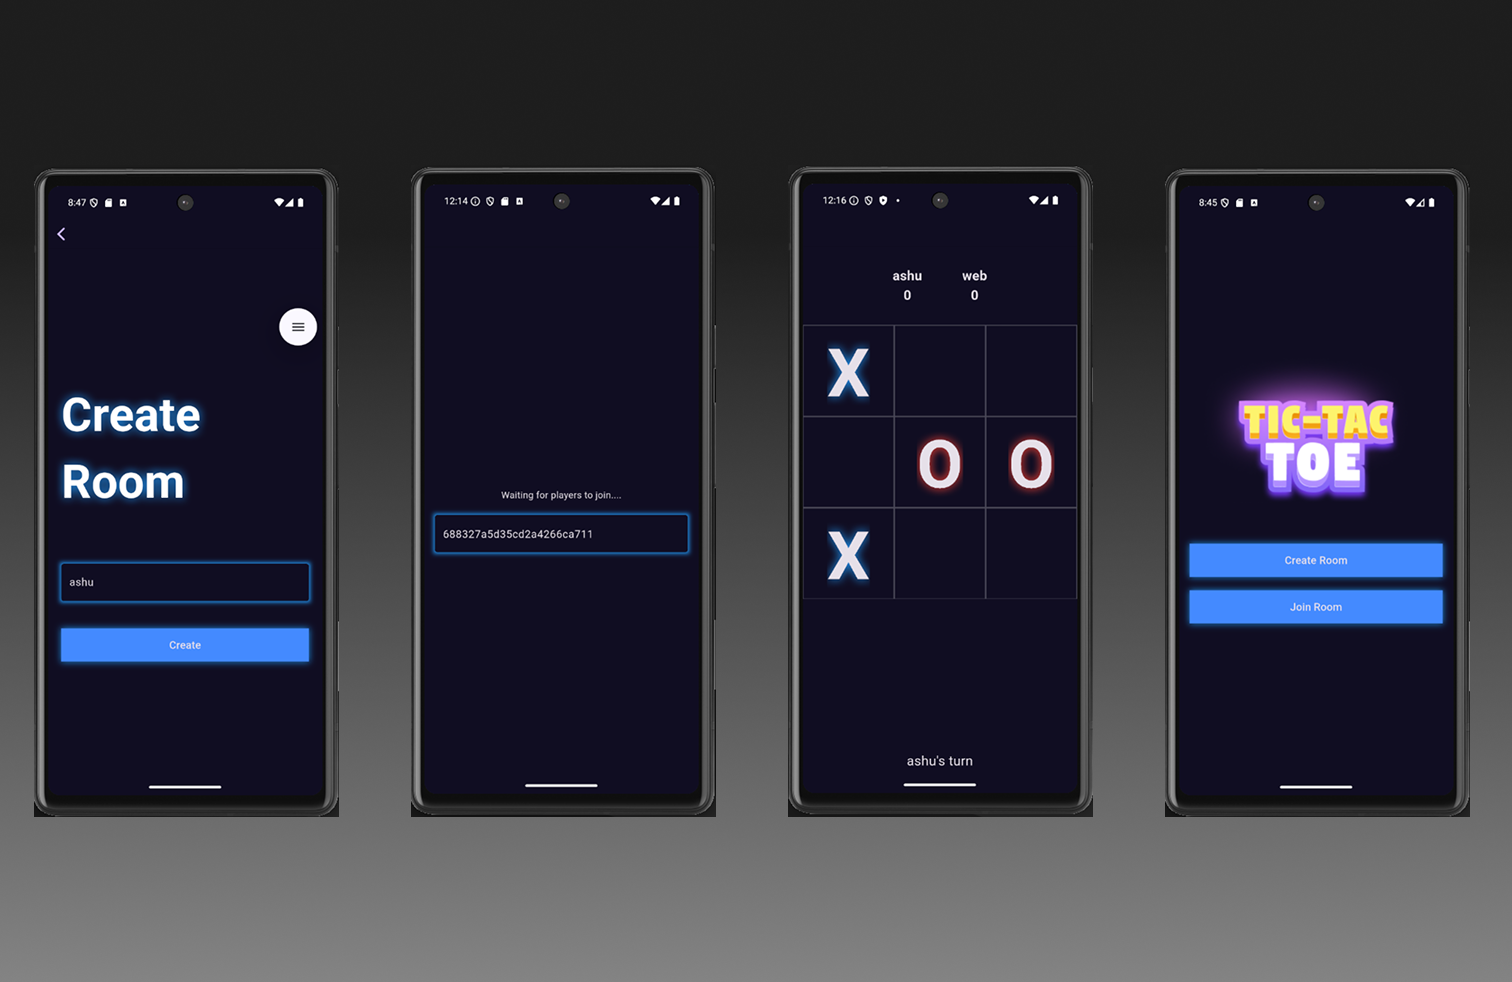
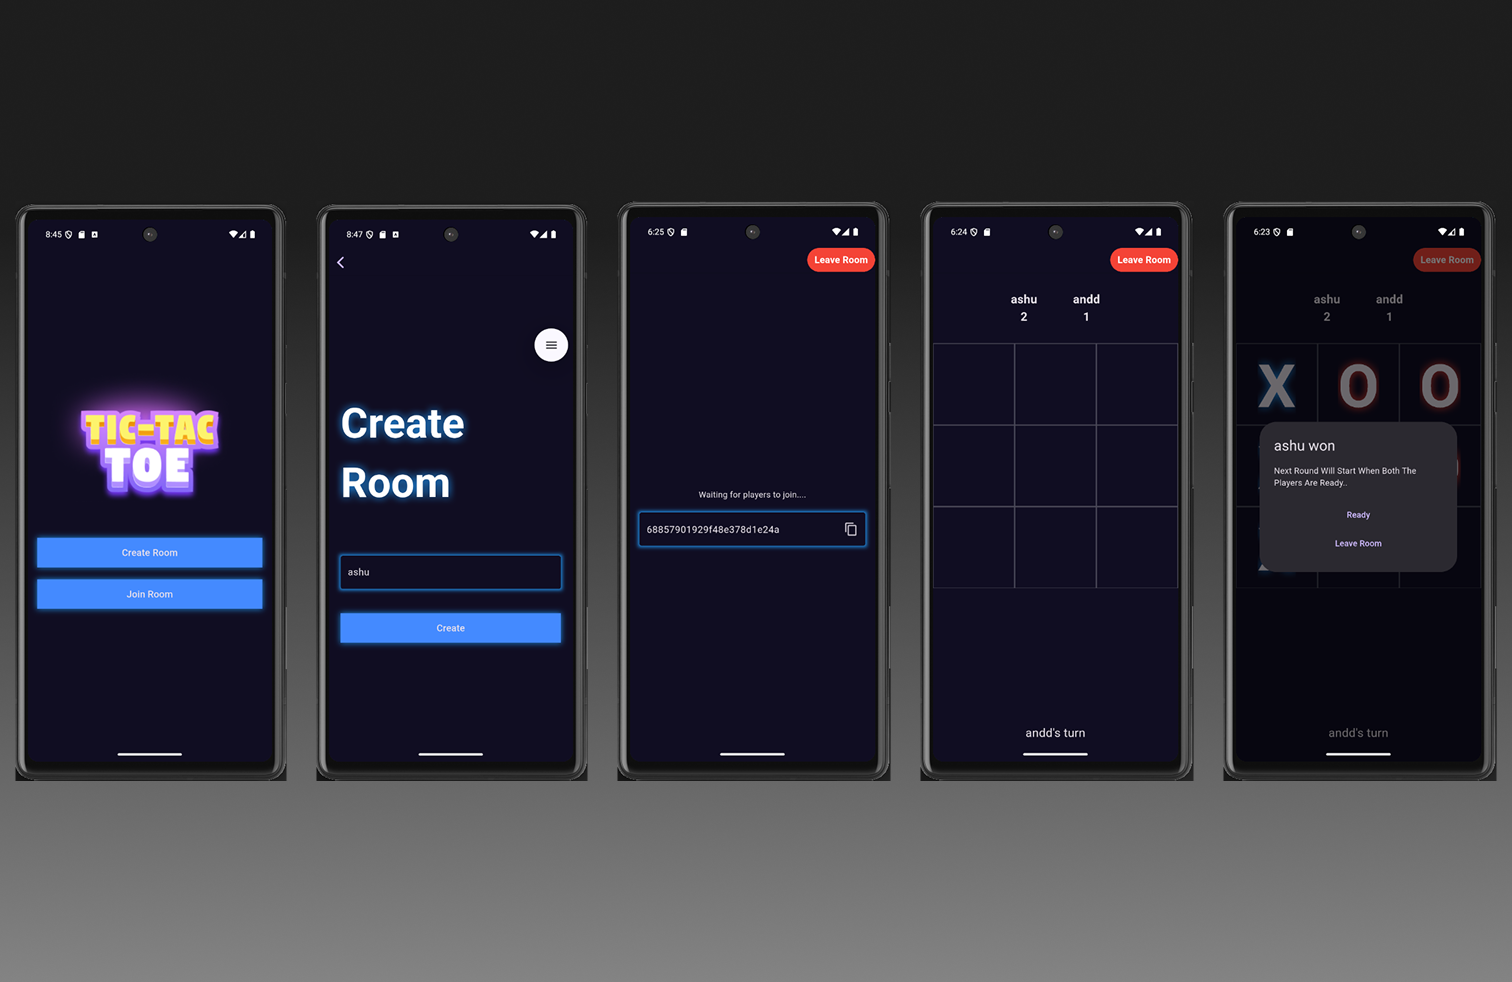
added waiting feature for next round

diff --git a/lib/utils/utils.dart b/lib/utils/utils.dart
@@ -1,27 +1,61 @@
+import 'dart:async';
+
 import 'package:flutter/material.dart';
-import 'package:tic_tac_toe_multiplayer/resources/game_methods.dart';
+import 'package:tic_tac_toe_multiplayer/resources/socket_methods.dart';
 import 'package:tic_tac_toe_multiplayer/screens/main_menu_screen.dart';
 
 void showSnackBar(BuildContext context, String content) {
   ScaffoldMessenger.of(context).showSnackBar(SnackBar(content: Text(content)));
 }
 
-void showGameDialog(BuildContext context, String text) {
+void showGameDialog(
+  BuildContext context,
+  String text,
+  String roomId,
+  String socketId,
+) {
   showDialog(
     barrierDismissible: false,
     context: context,
     builder: (context) {
-      return AlertDialog(
-        title: Text(text),
-        actions: [
-          TextButton(
-            onPressed: () {
-              GameMethods().clearBoard(context);
-              Navigator.pop(context);
-            },
-            child: Text('Play Again'),
-          ),
-        ],
+      bool isWaiting = false;
+
+      return StatefulBuilder(
+        builder: (context, setState) {
+          return AlertDialog(
+            title: Text(text),
+            content: Column(
+              mainAxisSize: MainAxisSize.min,
+              children: [
+                const Text(
+                  'Next Round Will Start When Both The Players Are Ready..',
+                ),
+                const SizedBox(height: 20),
+                if (isWaiting)
+                  const CircularProgressIndicator()
+                else
+                  TextButton(
+                    onPressed: () {
+                      SocketMethods().playerReady(
+                        roomId: roomId,
+                        socketId: socketId,
+                      );
+                      setState(() {
+                        isWaiting = true;
+                      });
+                    },
+                    child: const Text('Ready'),
+                  ),
+                TextButton(
+                  onPressed: () {
+                    SocketMethods().leaveRoom(roomId: roomId);
+                  },
+                  child: Text('Leave Room'),
+                ),
+              ],
+            ),
+          );
+        },
       );
     },
   );

diff --git a/lib/resources/game_methods.dart b/lib/resources/game_methods.dart
@@ -71,21 +71,36 @@ class GameMethods {
             roomDataProvider.displayElements[6] &&
         roomDataProvider.displayElements[2] != '') {
       winner = roomDataProvider.displayElements[2];
-    } 
-    if (roomDataProvider.filledBoxes == 9 && winner== '') {
+    }
+    if (roomDataProvider.filledBoxes == 9 && winner == '') {
       winner = '';
-      showGameDialog(context, 'Draw');
+      showGameDialog(
+        context,
+        'Draw',
+        roomDataProvider.roomData['_id'],
+        socketClient.id!,
+      );
     }
 
     if (winner != '') {
       if (roomDataProvider.player1.playerType == winner) {
-        showGameDialog(context, '${roomDataProvider.player1.nickname} won');
+        showGameDialog(
+          context,
+          '${roomDataProvider.player1.nickname} won',
+          roomDataProvider.roomData['_id'],
+          socketClient.id!,
+        );
         socketClient.emit('winner', {
           'winnerSocketId': roomDataProvider.player1.socketId,
           'roomId': roomDataProvider.roomData['_id'],
         });
       } else {
-        showGameDialog(context, '${roomDataProvider.player2.nickname} won');
+        showGameDialog(
+          context,
+          '${roomDataProvider.player2.nickname} won',
+          roomDataProvider.roomData['_id'],
+          socketClient.id!,
+        );
         socketClient.emit('winner', {
           'winnerSocketId': roomDataProvider.player2.socketId,
           'roomId': roomDataProvider.roomData['_id'],

diff --git a/server/index.js b/server/index.js
@@ -155,7 +155,34 @@ io.on("connection", (socket) => {
             console.log('error in leave room:', error);
         }
     });
-})
+
+    socket.on('playerReady', async ({ roomId, socketId }) => {
+        try {
+            const room = await Room.findById(roomId);
+            if (!room) return;
+
+            // Mark current player as ready
+            const player = room.players.find(p => p.socketId === socketId);
+            if (player) player.isReady = true;
+
+            await room.save();
+
+            const allReady = room.players.every(p => p.isReady);
+
+            if (allReady) {
+                // Reset both players' isReady to false for next round
+                room.players.forEach(p => p.isReady = false);
+                await room.save();
+
+                // Emit event to both players to reset game board
+                io.to(roomId).emit('bothPlayersReady', room);
+            }
+        } catch (e) {
+            console.log('Error in playerReady:', e);
+        }
+    });
+
+});
 
 
 

diff --git a/lib/resources/socket_methods.dart b/lib/resources/socket_methods.dart
@@ -39,6 +39,10 @@ class SocketMethods {
     _socketClient.emit('leaveRoom', {'roomId': roomId});
   }
 
+  void playerReady({required String roomId, required String socketId}) {
+    _socketClient.emit('playerReady', {'roomId': roomId, 'socketId': socketId});
+  }
+
   // LISTENERS
   void createRoomSuccessListener(BuildContext context) {
     _socketClient.on('createRoomSuccess', (room) {
@@ -125,6 +129,17 @@ class SocketMethods {
       } else {
         roomProvider.updatePlayer2(playerData);
       }
+    });
+  }
+
+  void bothPlayersReadyListener(BuildContext context) {
+    _socketClient.on('bothPlayersReady', (roomData) {
+      Provider.of<RoomDataProvider>(
+        context,
+        listen: false,
+      ).updateRoomData(roomData);
+      Navigator.pop(context);
+      GameMethods().clearBoard(context);
     });
   }
 

diff --git a/lib/widgets/custom_text_field.dart b/lib/widgets/custom_text_field.dart
@@ -1,5 +1,7 @@
 import 'package:flutter/material.dart';
+import 'package:flutter/services.dart';
 import 'package:tic_tac_toe_multiplayer/utils/constants.dart';
+import 'package:tic_tac_toe_multiplayer/utils/utils.dart';
 
 class CustomTextField extends StatelessWidget {
   final TextEditingController controller;
@@ -28,6 +30,13 @@ class CustomTextField extends StatelessWidget {
           hintText: hintText,
           fillColor: Constants.bgColor,
           filled: true,
+          suffixIcon: IconButton(
+            onPressed: () {
+              Clipboard.setData(ClipboardData(text: controller.text));
+              showSnackBar(context, 'Copied to clipboard');
+            },
+            icon: Icon(Icons.copy),
+          ),
         ),
       ),
     );

diff --git a/lib/screens/game_screen.dart b/lib/screens/game_screen.dart
@@ -28,6 +28,7 @@ class _GameScreenState extends State<GameScreen> {
       _socketMethods.endGameListener(context);
       _socketMethods.endGameDueToErrorListener(context);
       _socketMethods.playerLeftListener(context);
+      _socketMethods.bothPlayersReadyListener(context);
     });
   }
 

diff --git a/server/models/players.js b/server/models/players.js
@@ -14,6 +14,10 @@ const playerSchema= new mongoose.Schema({
     playerType:{
         required: true,
         type: String,
+    },
+    isReady:{
+        type: Boolean,
+        default: false,
     }
 });
 module.exports=playerSchema;
